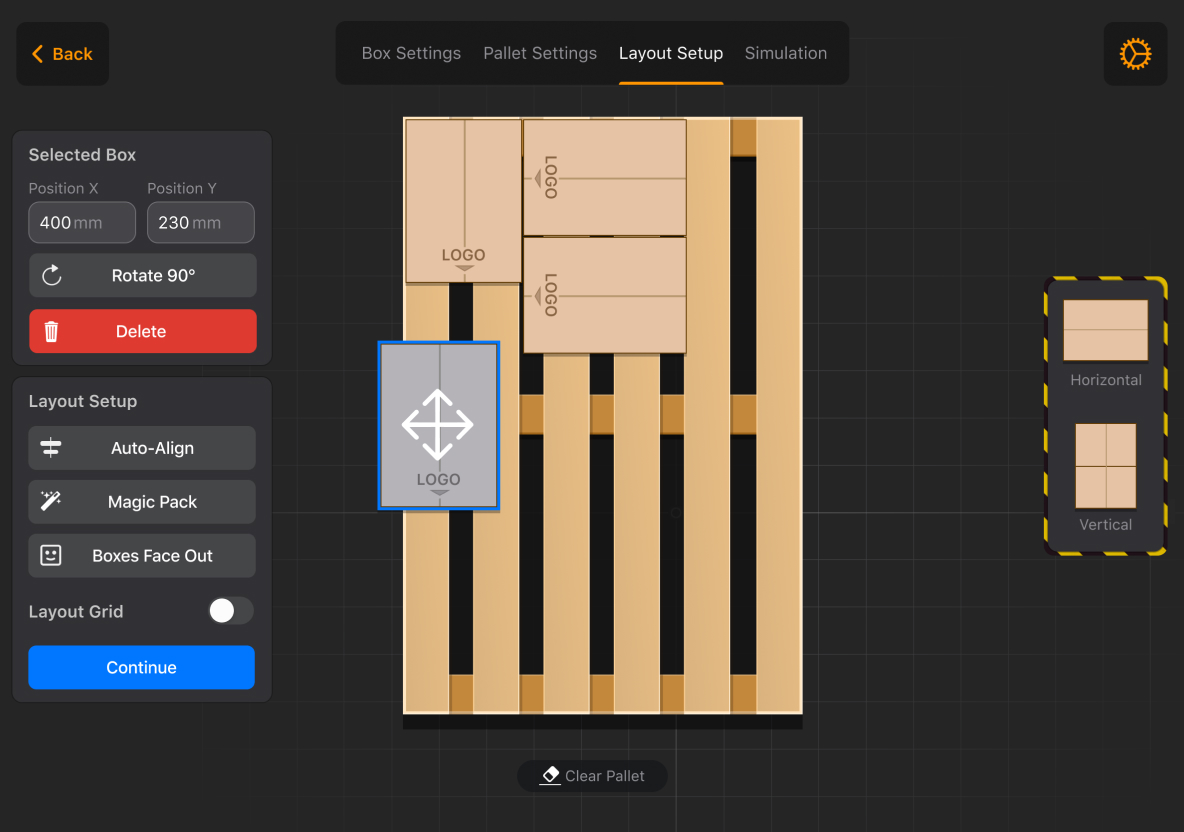
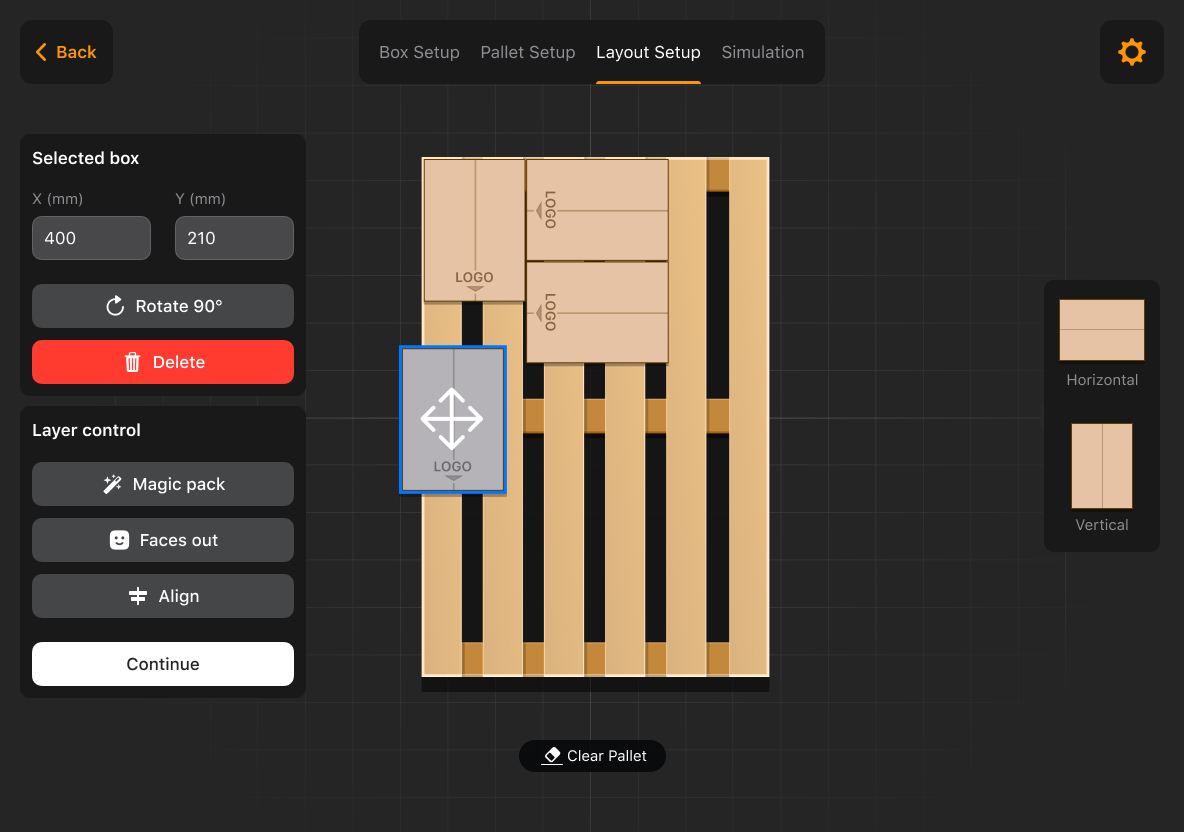
Updated GitHub Pages version to 0.1

diff --git a/main.css b/main.css
@@ -3066,6 +3066,7 @@ section.opack-container {
   height: 3px;
   margin-bottom: 3px;
   background-color: #B2B2B2;
+  opacity: 0;
 }
 @media only screen and (min-device-width: 320px) and (max-device-width: 568px) and (-webkit-min-device-pixel-ratio: 2) {
   .opack-plug-scheme .connector .line {
@@ -3086,10 +3087,10 @@ section.opack-container {
   }
 }
 .opack-plug-scheme .ipad-big {
-  width: 680px;
-  height: 493px;
-  background: url(assets/images/ipad-11-big-layers.jpg);
-  background-size: 680px 493px;
+  width: 644px;
+  height: 500px;
+  background: url(assets/images/layout-setup.jpg);
+  background-size: 644px 500px;
   flex-shrink: 0;
   position: relative;
   display: block;
@@ -3099,7 +3100,7 @@ section.opack-container {
 .opack-plug-scheme .ipad-big::after {
   content: 'Full HD touch display.';
   position: absolute;
-  bottom: -40px;
+  bottom: -35px;
   right: 40px;
   font-family: 'Roboto', sans-serif;
   font-weight: 500;
